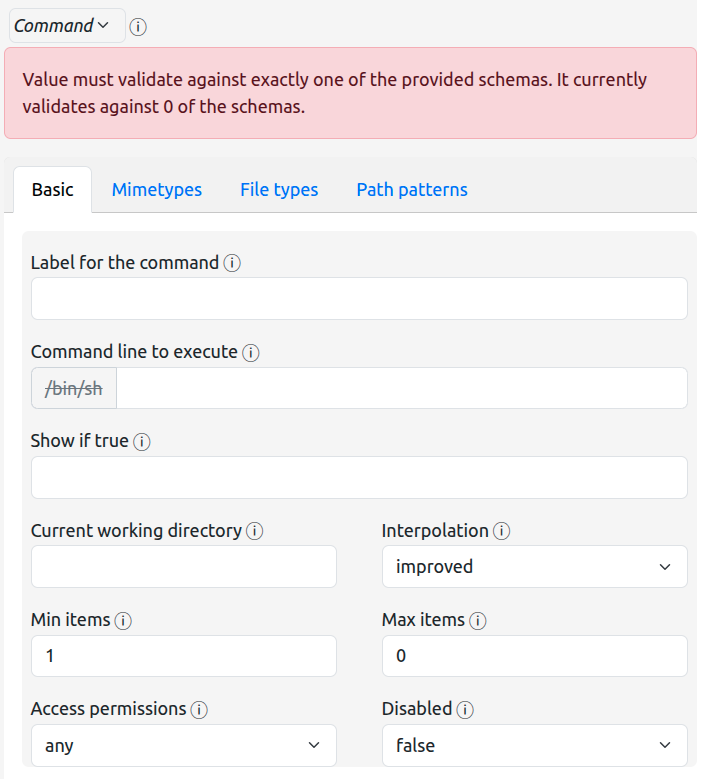
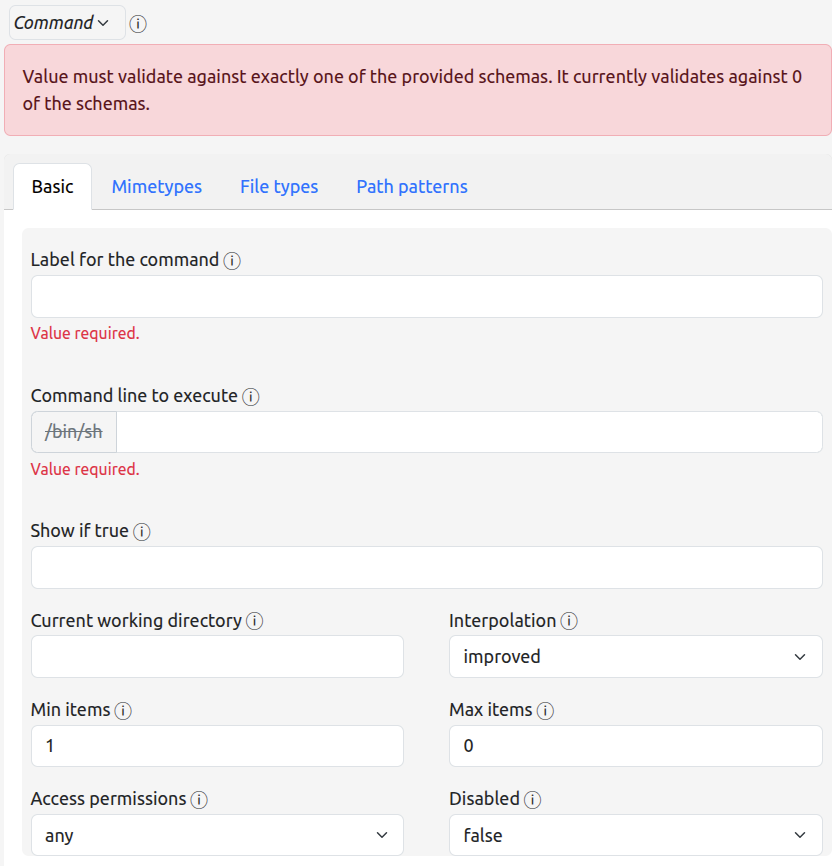
Doc updates

diff --git a/configurator/actions-for-nautilus-configurator-help.html b/configurator/actions-for-nautilus-configurator-help.html
@@ -95,6 +95,12 @@
 					set the debug
 					output option if you need to resolve problems with your configuration.
 				</p>
+				<p>The menu item links on the left will be colored with different palettes depending on the item status:</p>
+				<ul>
+					<li>If the action is enabled and contains no validation errors, the menu item link will use a blue palette.</li>
+					<li>If the action is <e>disabled</e> and contains no validation errors, the menu item link will use a grey palette.</li>
+					<li>If the action contains validation errors, the menu item link will use a red palette.</li>
+				</ul>
 			</li>
 			<li>
 				<p>The right column shows the details and characteristics of the currently selected main menu action
@@ -108,6 +114,8 @@
 					<li>set the command string, current working directory, and filter rules that pertain to a command
 						action</li>
 				</ul>
+				<p>If any field in the action has a validation error, that field will display an error message below it, while the
+					action as a whole may have other messages to help correct errors.</p>
 			</li>
 		</ul>
 		<p>Of special note is the <strong>Submenu Actions</strong> tab for menu actions ... this presents the identical
